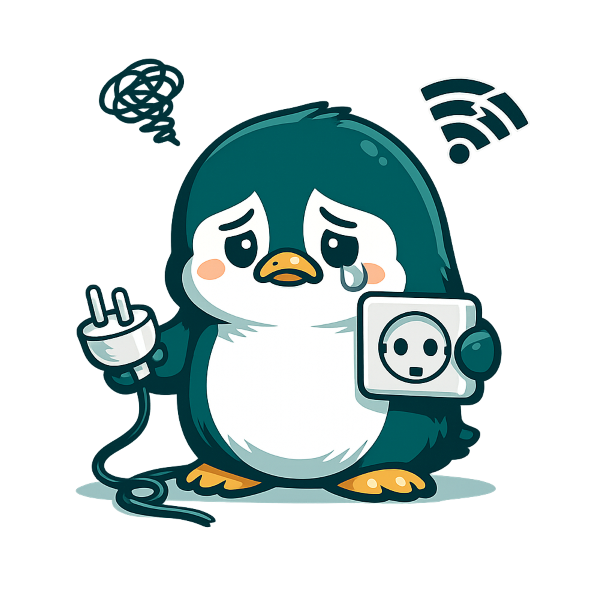
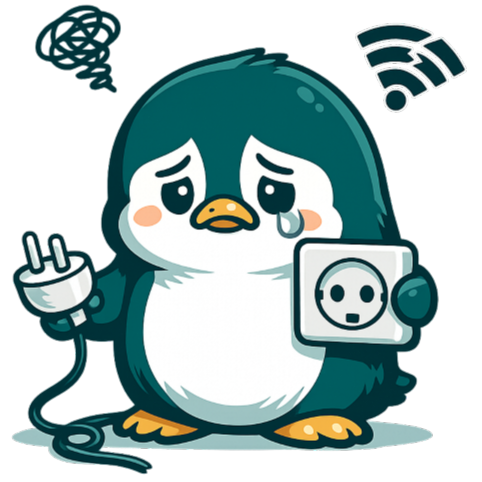
offline.html

diff --git a/03.EndPoints/CRM.EndPoint.FrontEnd/wwwroot/static/offline.html b/03.EndPoints/CRM.EndPoint.FrontEnd/wwwroot/static/offline.html
@@ -3,6 +3,8 @@
 <head>
   <meta charset="UTF-8">
   <meta name="viewport" content="width=device-width, initial-scale=1.0">
+  <link rel="icon" type="image/png" sizes="32x32" href="/static/icons/favicon-32x32.png">
+  <link rel="icon" type="image/png" sizes="16x16" href="/static/icons/favicon-16x16.png">
   <title>اتصال قطع است</title>
   
   <style>
@@ -35,7 +37,7 @@
       margin: 0;
       background: #fff;
       color: #1f2937;
-      min-height: 100dvh;
+      min-height: 80dvh;
       display: flex;
       align-items: center;
       justify-content: center;
@@ -44,28 +46,29 @@
     
     .container {
       width: 100%;
-      max-width: 400px;
+      max-width: 650px;
       padding: 24px;
-      text-align: center;
+      /* text-align: center; */
     }
     
     
     .icon {
-      margin: 0 auto 16px;
+      margin: 0 auto 20px;
       border-radius: 50%;
       display: flex;
       align-items: center;
-      justify-content: center;
+      /* justify-content: center; */
     }
     
     
     .icon img {
       width: 100%;
+      max-width: 160px;
     }
     
     
     h1 {
-      margin: 0 0 12px;
+      margin: 0 0 4px;
       font-size: 20px;
       color: #004944;
       font-family: IRANSansBold, serif;
@@ -73,8 +76,8 @@
     
     
     p {
-      margin: 0 0 24px;
-      font-size: 14px;
+      margin: 0 0 14px;
+      font-size: 15px;
       line-height: 1.8;
       color: #4b5563;
     }
@@ -84,11 +87,11 @@
       all: unset;
       cursor: pointer;
       display: inline-block;
-      padding: .5rem 1rem;
-      border-radius: .5rem;
+      padding: 8px 18px;
+      border-radius: 8px;
       background: #004944;
       color: #fff;
-      font-size: 1rem;
+      font-size: 15px;
       transition: transform .1s ease, box-shadow .1s ease;
     }
     
@@ -101,17 +104,29 @@
     
     @media (max-width: 480px) {
       h1 {
-        font-size: 18px;
+        font-size: 16px;
       }
       
       .icon img {
-        max-width: 280px;
+        max-width: 120px;
       }
       
       p {
         font-size: 13px;
       }
+      
+      button {
+        font-size: 14px;
+      }
     }
+    
+    
+    @media (max-width: 767px) and (min-width: 480px) {
+      .container {
+        padding-inline: 10%;
+      }
+    }
+  
   </style>
 </head>
 <body>

diff --git a/03.EndPoints/CRM.EndPoint.FrontEnd/wwwroot/sw.js b/03.EndPoints/CRM.EndPoint.FrontEnd/wwwroot/sw.js
@@ -1,4 +1,4 @@
-const CACHE_VERSION = 1;
+const CACHE_VERSION = 2;
 
 const CACHE_NAME = `static-fallback-v${CACHE_VERSION}`;
 

diff --git a/03.EndPoints/CRM.EndPoint.FrontEnd/Startup.cs b/03.EndPoints/CRM.EndPoint.FrontEnd/Startup.cs
@@ -213,7 +213,10 @@ namespace CRM.EndPoint.FrontEnd {
 
             if (env.IsDevelopment())
             {
-                app.UseDeveloperExceptionPage();
+                app.UseExceptionHandler("/Error/500"); // فقط برای exceptionهای واقعی (500+)
+                app.UseStatusCodePagesWithReExecute("/Error/{0}"); // برای status code ها مثل 404 / 401 / 403
+
+                //app.UseDeveloperExceptionPage();
             } else
             {
                 app.UseExceptionHandler("/Error/500"); // فقط برای exceptionهای واقعی (500+)
